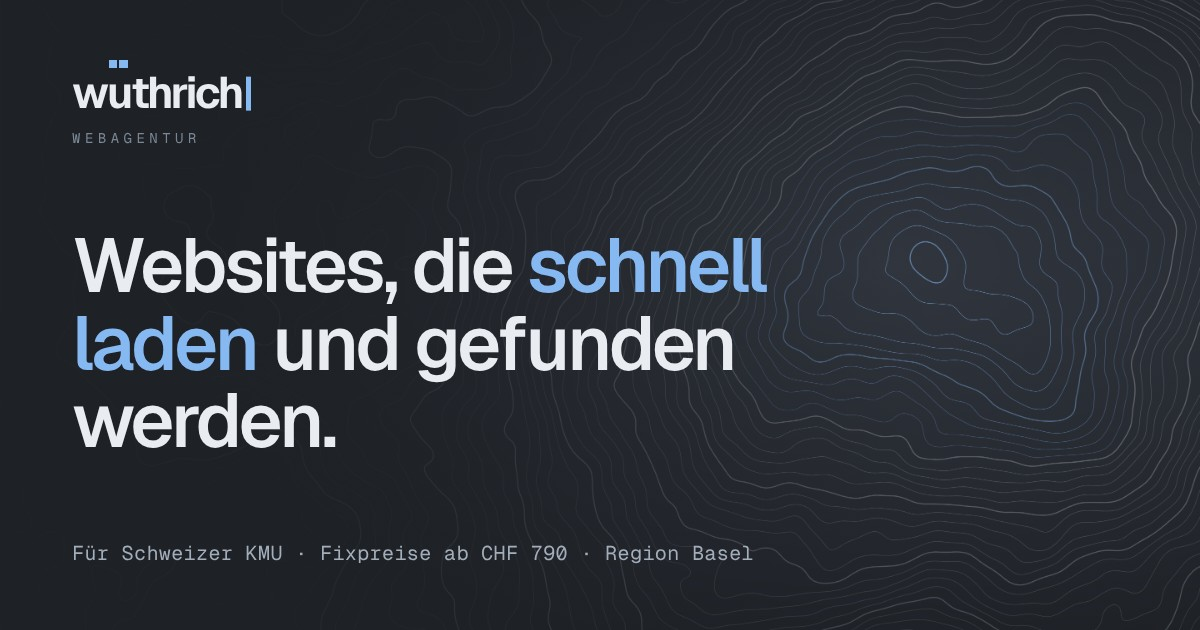
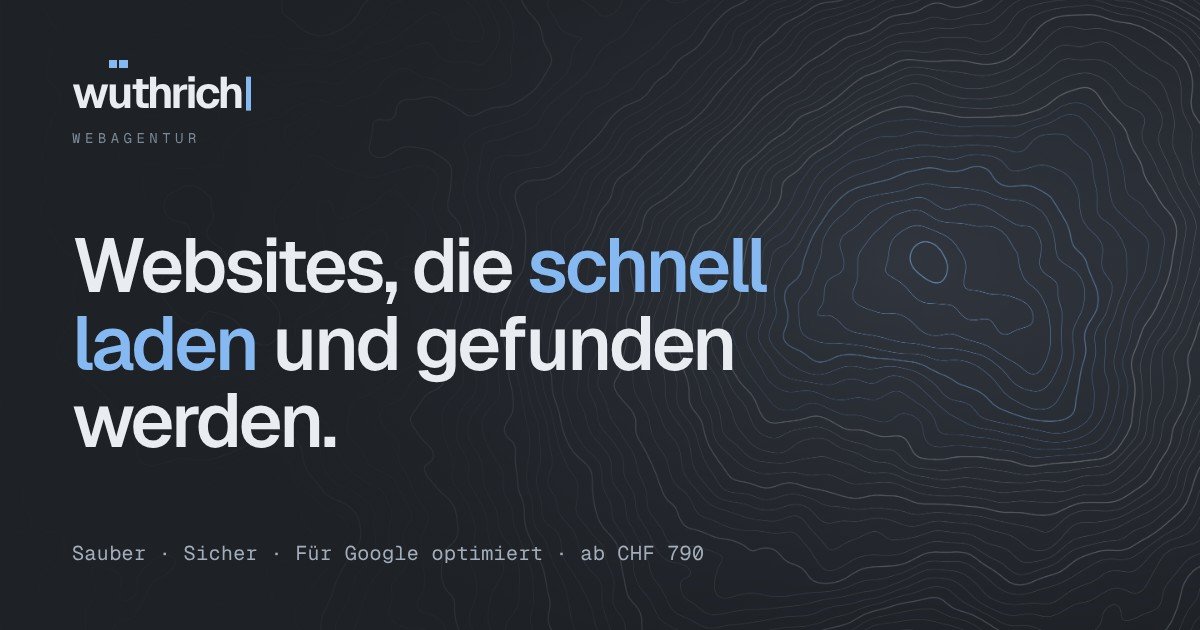
Hero-Text ohne KMU-Fokus, Schweizerkreuz dezent im Footer
- «Sauber programmiert, sicher aufgesetzt und für Google optimiert» – ganze Schweiz, ab CHF 790
- Titel, Beschreibung, Footer und Vorschaubild ohne KMU/Region
- Kleines Schweizerkreuz mit «Made in Switzerland» im Footer

Claude-Session: https://claude.ai/code/session_01KdWoZ6Kj5ekctyyHU22p6b

Changed region(s): [[0.0617, 0.8444, 0.6167, 0.9048]]

diff --git a/src/config/site.ts b/src/config/site.ts
@@ -11,7 +11,7 @@ export interface NavItem {
 export const site = {
   name: 'Webagentur Wüthrich',
   owner: 'Artur Wüthrich',
-  tagline: 'Websites für Schweizer KMU',
+  tagline: 'Websites für die ganze Schweiz',
   /** Weitere Schreibweisen des Namens – damit Google die Marke auch so erkennt. */
   alternateNames: ['Webagentur Wuethrich', 'Wüthrich Webagentur', 'Wuethrich Webdesign'],
   /**
@@ -20,7 +20,7 @@ export const site = {
    */
   googleSiteVerification: '',
   description:
-    'Webagentur Wüthrich: individuelles Webdesign für KMU in Basel und der ganzen Deutschschweiz. Schnelle, sichere und für Google optimierte Websites – Fixpreise ab CHF 790.',
+    'Webagentur Wüthrich: saubere, sichere und für Google optimierte Websites – individuell gestaltet, für Unternehmen in der ganzen Schweiz. Fixpreise ab CHF 790.',
   locale: 'de_CH',
   lang: 'de-CH',
   /** false = echte Website: indexierbar, LocalBusiness-Schema aktiv, keine Demo-Hinweise. */
